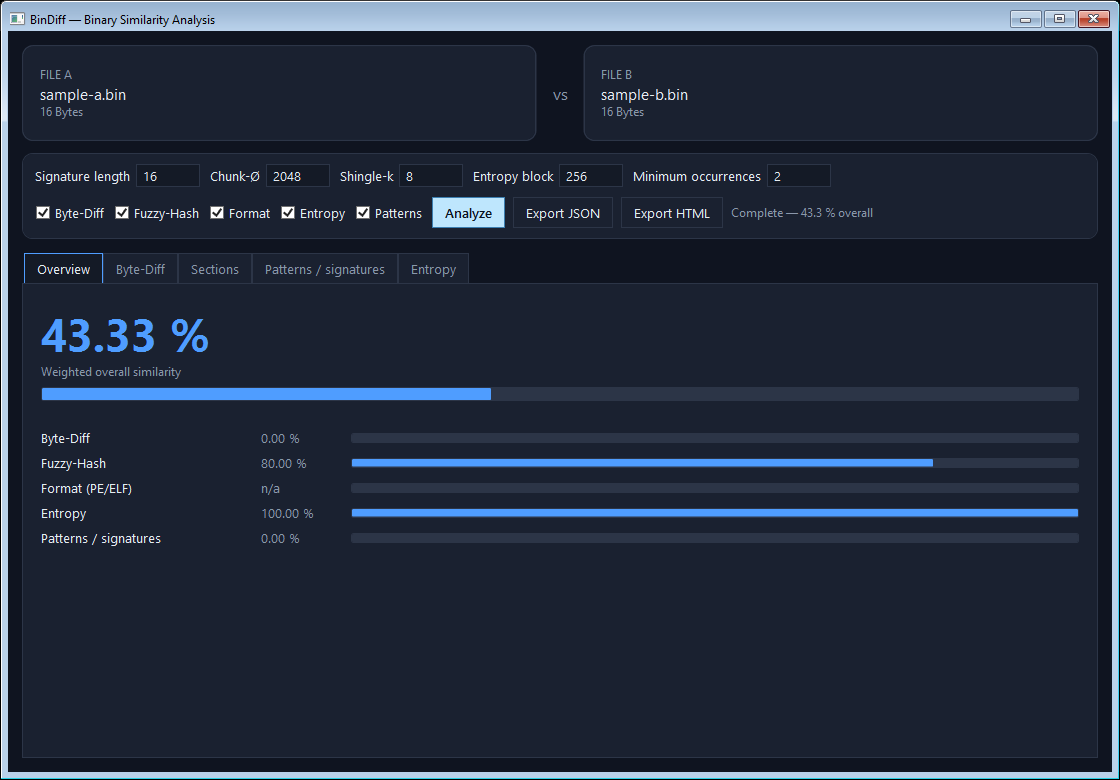
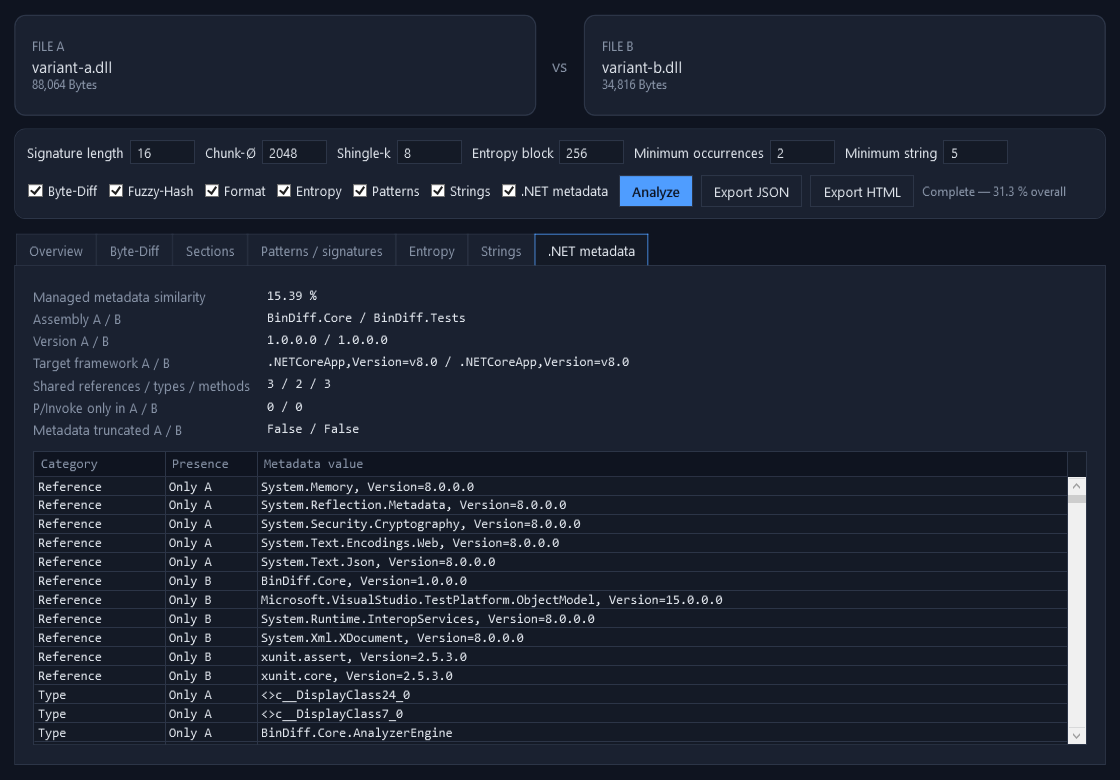
docs: prepare BinDiff 2 release candidate

Changed region(s): [[0.0, 0.0, 1.0, 1.0], [0.4375, 0.4615, 0.5625, 0.4923], [0.75, 0.1846, 0.8438, 0.2154]]

diff --git a/docs/release-readiness.md b/docs/release-readiness.md
@@ -1,115 +1,55 @@
-# BinDiff Release Readiness
+# BinDiff 2.0 release-candidate checklist
 
-## Baseline recorded 2026-08-12
+Target tag: `v2.0.0-rc.1`
 
-Commands were run from the repository root on the public-release branch.
+## Public boundary
 
-```text
-dotnet build BinDiff.slnx
-```
+The source tree contains the managed local comparison engine, CLI, WPF GUI,
+documentation, and safe synthetic/project-owned tests. It contains no unknown
+sample, updater, telemetry, network client, binary rewriter, disassembler,
+decompiler, or project-owned native component.
 
-Result: succeeded with 0 errors and 2 warnings. Both warnings are xUnit2000 in
-`BinDiff.Tests/ByteDiffAnalyzerTests.cs` lines 50 and 51: `Assert.Equal`
-arguments are ordered as actual, expected rather than expected, actual.
+Self-contained archives include Microsoft .NET runtime dependencies produced by
+`dotnet publish`. Inputs remain local and read-only. Managed PE files are parsed
+with metadata readers rather than loaded as assemblies.
 
-```text
-dotnet test BinDiff.Tests/BinDiff.Tests.csproj
-```
+## Required evidence
 
-Result: passed: 40; failed: 0; skipped: 0. The same two xUnit2000 warnings were
-emitted during the test build.
+- Release build completes with no warnings or errors.
+- All tests pass in Release configuration.
+- Format verification and `git diff --check` pass.
+- Self-contained Windows x64 CLI and GUI publishes succeed.
+- CLI comparison writes concrete `strings` and `dotNet` data to valid JSON and
+  encoded HTML.
+- Published GUI starts and completes a harmless project-assembly comparison.
+- The refreshed screenshot contains neutral artifact names and no private path.
+- Tracked-file review finds no build output, executable sample, report, dump,
+  credential, personal path, or unexpected large file.
+- README, security policy, contribution guide, report format, changelog, CI, and
+  tag-release workflow match the shipped behavior.
 
-## Repository scan
+## Verification record
 
-Tracked source, XAML, and documentation contain German user-facing copy and
-comments in the CLI, Core reporting and model files, and WPF GUI. The existing
-README is German and its UTF-8 text is displayed incorrectly in the current
-PowerShell output encoding.
+Verified locally on 2026-09-01 against the complete candidate tree:
 
-No tracked personal filesystem paths, credential-like strings, executable
-samples, or generated binary artifacts were found by the baseline scan. The
-existing `.gitignore` excludes `bin/`, `obj/`, `.vs/`, `.idea/`, and generated
-report files.
+- Release build: zero warnings and zero errors.
+- Tests: 52 passed, zero failed, zero skipped.
+- Format verification, YAML parse, and `git diff --check`: succeeded.
+- Self-contained Windows x64 CLI and GUI publishes: succeeded.
+- Published CLI smoke: seven section kinds; 945 bounded strings in A; managed
+  metadata applicable; concrete JSON and 52,701-byte self-contained HTML.
+- Both SHA-256 input hashes were identical before and after comparison.
+- Published GUI smoke: responsive; 61 automation elements; Analyze, Strings,
+  .NET metadata, and Export controls present.
+- 1120 × 780 WPF screenshot inspected with neutral `variant-a.dll` and
+  `variant-b.dll` project artifacts and no visible private path.
 
-## Release gate recorded 2026-08-12
+## Maintainer actions
 
-```text
-dotnet build BinDiff.slnx --configuration Release
-```
+1. Enable GitHub private vulnerability reporting.
+2. Confirm source ownership, MIT licensing, and dependency provenance.
+3. Merge the reviewed branch to `main` and create the target tag.
+4. Verify the generated `SHA256SUMS.txt` before announcing the release.
 
-Result: succeeded with 0 warnings and 0 errors.
-
-```text
-dotnet test BinDiff.Tests/BinDiff.Tests.csproj --configuration Release
-```
-
-Result: passed: 40; failed: 0; skipped: 0.
-
-```text
-dotnet format BinDiff.slnx --verify-no-changes
-```
-
-Result: succeeded with no required formatting changes.
-
-The final tracked-file scan found no generated build output, IDE state, private
-paths, credential-like strings, or executable samples. `git status --short` and
-the staged-file list were empty before this report update.
-
-## Provenance and documentation
-
-`git log --all --name-status` shows the tracked source was introduced by the
-same project author, and a repository-wide source scan found no third-party or
-license notices. The repository owner selected the MIT License for the original
-project source and documentation. This technical evidence is not a substitute
-for the owner's final confirmation that all included work may be relicensed.
-
-The GUI screenshot at `docs/images/gui-overview.png` was captured from the
-locally built WPF application and inspected. It shows the completed comparison
-of synthetic `sample-a.bin` and `sample-b.bin` inputs only; no private path or
-real filename is present.
-
-## Remaining limitations
-
-## Release blockers
-
-- Explicit source-ownership and provenance confirmation is required before the
-  public repository is enabled.
-- Before publishing to GitHub, the owner must enable **Report a vulnerability**
-  in the repository's Security tab or publish an equivalent monitored private
-  reporting route.
-
-The tool also loads complete inputs into memory, and its format and similarity
-results are best-effort heuristics; these limitations are documented in the
-README.
-
-## Review remediation recorded 2026-08-12
-
-The README's synthetic PowerShell example was run from the repository root. It
-created two 16-byte temporary inputs, exited with code 0, wrote nonempty JSON
-(7,109 bytes) and HTML (6,255 bytes) reports, and left both input SHA-256 hashes
-unchanged. The temporary directory was removed after verification.
-
-The GUI screenshot was recaptured from the built WPF application after selecting
-the same synthetic files and running a comparison. It visibly shows only
-`sample-a.bin`, `sample-b.bin`, their 16-byte sizes, and derived scores.
-
-Following the remediation, the Release build, Release test suite, and format
-verification were run again: build succeeded with 0 warnings and 0 errors;
-tests passed 41/41; and `dotnet format BinDiff.slnx --verify-no-changes`
-succeeded.
-
-## GUI theme remediation recorded 2026-08-12
-
-The result-state screenshot exposed native light tab and progress-control
-templates and black overview labels on the dark theme. The root cause was that
-the XAML only set basic control properties, leaving the native `TabItem` and
-`ProgressBar` templates active; the overview title binding also relied on an
-implicit text foreground. Explicit dark `TabItem` and `ProgressBar` templates,
-data-grid row foregrounds, and an explicit overview-label foreground now ensure
-the intended dark surfaces and high-contrast text.
-
-`GuiThemeResourceTests` is a focused regression check that fails unless the
-theme defines explicit tab/progress templates and the overview title binds to
-the foreground resource. It was observed failing before the XAML change and
-passes afterward. The refreshed application screenshot was visually inspected:
-tab headers, metric labels, tracks, and fills now render with the dark palette.
+A release candidate invites validation. Similarity remains evidence for review,
+not proof of common origin, intent, or safety.

diff --git a/README.md b/README.md
@@ -1,9 +1,9 @@
 # BinDiff
 
 BinDiff compares two authorized binary files on your machine. It brings byte
-layout, fuzzy hashes, PE/ELF metadata, entropy, and repeated byte patterns into
-one report so you can investigate variants, document changes, or troubleshoot
-build artifacts.
+layout, fuzzy hashes, PE/ELF structure, managed .NET metadata, entropy,
+embedded strings, and repeated byte patterns into one report so you can
+investigate variants, document changes, or troubleshoot build artifacts.
 
 It reads inputs only. BinDiff does not modify files, contact a network service,
 collect telemetry, upload data, or generate binaries. Analyze only files you
@@ -11,10 +11,10 @@ are authorized to inspect.
 
 ## Project status
 
-The current source release targets .NET 8 and keeps analysis local and
-read-only. The CLI, WPF GUI, core engine, deterministic report writers, and
-synthetic test fixtures are maintained together. There are no published binary
-releases; build from source and validate the exact revision you intend to use.
+The 2.0 release candidate targets .NET 8 and keeps analysis local and read-only.
+The CLI, WPF GUI, core engine, deterministic report writers, and synthetic test
+fixtures are maintained together. Build from source until a reviewed tag and
+its checksums appear on the Releases page.
 
 ![BinDiff GUI overview](docs/images/gui-overview.png)
 
@@ -36,6 +36,8 @@ flowchart LR
   Core --> Format["PE / ELF format"]
   Core --> Entropy["Entropy"]
   Core --> Patterns["Patterns"]
+  Core --> Strings["ASCII / UTF-16LE strings"]
+  Core --> DotNet["Managed .NET metadata"]
   Core --> Reports["Text / JSON / HTML reports"]
 ```
 
@@ -51,6 +53,11 @@ flowchart LR
   profiles.
 - Pattern analysis compares fixed-length byte sequences and lists common and
   file-specific candidate static indicators.
+- String analysis extracts bounded printable ASCII and UTF-16LE runs, then
+  reports shared and file-specific values with encoding, offsets, and counts.
+- Managed .NET analysis reads assembly identity, target framework, references,
+  types, methods, and P/Invoke declarations directly from PE metadata. It does
+  not load either assembly.
 
 Any binary data can be compared. Recognized PE and ELF files add metadata to
 the report; other formats still receive the byte, fuzzy-hash, entropy, and
@@ -102,12 +109,17 @@ Common options:
 | `--block-size <n>` | Target content-defined chunk size | 2048 |
 | `--shingle-k <n>` | Byte shingle size for MinHash | 8 |
 | `--entropy-block <n>` | Entropy block size in bytes | 256 |
-| `--modules <a,b,...>` | Select `bytediff,fuzzy,format,entropy,patterns` | all |
+| `--string-min <n>` | Minimum ASCII/UTF-16LE string length | 5 |
+| `--max-strings <n>` | Displayed strings per shared/unique category | 100 |
+| `--modules <a,b,...>` | Select `bytediff,fuzzy,format,entropy,patterns,strings,dotnet` | all |
 | `--json <path>` | Write a JSON report | — |
 | `--html <path>` | Write a standalone HTML report | — |
 
 Reports include input filenames, paths, sizes, SHA-256 hashes, and derived
-analysis output. Treat that metadata with the same care as the files themselves.
+analysis output. Extracted strings can contain internal paths, endpoints, keys,
+or other sensitive material. Review a report before sharing it and treat it
+with the same care as the files themselves. The machine-facing structure is
+documented in [the report format](docs/report-format.md).
 
 ## GUI
 
@@ -118,8 +130,10 @@ dotnet run --project BinDiff.Gui
 ```
 
 Choose or drag in two files, select the analyses and parameters, then click
-**Analyze**. The screenshot uses the synthetic `sample-a.bin` and
-`sample-b.bin` files; it contains no private path or real input.
+**Analyze**. Dedicated tabs show string changes and managed metadata changes;
+the Overview keeps each module's influence on the weighted score visible. The
+screenshot uses locally built project assemblies renamed `variant-a.dll` and
+`variant-b.dll`; it contains no private path or unknown input.
 
 ## Limitations
 
@@ -130,6 +144,10 @@ Choose or drag in two files, select the analyses and parameters, then click
   substantial memory and time.
 - PE and ELF parsing is deliberately defensive and best-effort, not a full
   disassembler or executable validator.
+- Managed metadata lists declarations. They do not prove a method is reachable
+  or that a P/Invoke is called at runtime.
+- Printable-string extraction intentionally ignores encoded, compressed,
+  encrypted, non-Latin, and short values and can include benign build metadata.
 - BinDiff compares exactly two local files per run and does not perform semantic
   code analysis, unpacking, modification, or network retrieval.
 

diff --git a/docs/report-format.md b/docs/report-format.md
@@ -1,0 +1,49 @@
+# BinDiff report format
+
+JSON reports contain `fileA`, `fileB`, `overallSimilarityPercent`, `sections`,
+`generatedAt`, and `warnings`. Each section has a `kind` discriminator, common
+fields (`module`, `title`, `similarityPercent`, `error`, `metrics`), and its
+module-specific data.
+
+Current section kinds:
+
+| `kind` | Detail |
+| --- | --- |
+| `byteDiff` | Content-defined chunks, byte histogram, and file maps. |
+| `fuzzyHash` | MinHash and context-triggered piecewise hashes. |
+| `format` | PE/ELF summaries, sections, and imports. |
+| `entropy` | Aggregate values and down-sampled profiles. |
+| `patterns` | Shared and file-specific repeated byte sequences. |
+| `strings` | Bounded ASCII/UTF-16LE sets, encoding, offsets, and counts. |
+| `dotNet` | Managed profiles and common/file-specific metadata. |
+| `error` | A module failure captured without aborting the comparison. |
+
+## Stability
+
+The `kind` strings and existing property names are the integration contract for
+the 2.x line. Consumers should ignore unknown properties and section kinds,
+handle a null similarity score, and read `error` before module-specific fields.
+
+`generatedAt` varies per run. Hashes and analyzer content are deterministic for
+the same two inputs, options, architecture, and BinDiff revision. Input paths
+are included in JSON; avoid publishing a report until those paths and extracted
+strings have been reviewed.
+
+## String details
+
+String identity is the pair of `encoding` and `value`; the same text in ASCII
+and UTF-16LE is intentionally treated as two observations. Missing offsets are
+`-1`. Lists are capped by `maxReportedStrings`, while the distinct counts refer
+to the bounded extraction set.
+
+## Managed metadata details
+
+`applicable` is false when neither input exposes managed assembly metadata. A
+single managed input is applicable and scores zero against a native/unknown
+counterpart. `truncated` on a profile means at least one metadata collection hit
+the configured bound. P/Invoke values contain the module, imported member, and
+declaring managed method; they are evidence, not proof the call is reachable.
+
+The HTML report is a human-facing rendering of the same result. It is
+self-contained, uses no scripts or network resources, HTML-encodes extracted
+values, and caps expanded tables for readability.

diff --git a/SECURITY.md b/SECURITY.md
@@ -2,8 +2,8 @@
 
 ## Supported versions
 
-Security fixes are made against the current default branch. This repository has
-not published versioned releases yet.
+Security fixes are made against the newest published release-candidate line.
+Old source snapshots are not maintained.
 
 ## Reporting a vulnerability
 
@@ -35,3 +35,19 @@ disclosure.
 BinDiff is intended to read local files only. Reports that identify unsafe
 parsing, unbounded resource use, unexpected file modification, or an unintended
 network interaction are particularly useful.
+
+The following are security invariants:
+
+- Managed assemblies are parsed as bytes and metadata; they are never loaded,
+  resolved, or executed.
+- Analyzer loops, extracted strings, metadata collections, profiles, and report
+  tables remain bounded for attacker-controlled input.
+- HTML output encodes filenames, paths, warnings, metadata, and extracted text
+  and contains no scripts or external resources.
+- One analyzer failure remains isolated and cannot turn the other results into
+  a clean or identical claim.
+- Inputs are never rewritten, patched, deleted, uploaded, or quarantined.
+
+JSON and HTML reports can contain sensitive strings and local paths derived
+from the inputs. That expected disclosure is documented behavior; leaking the
+data anywhere other than the user-selected local report is not.

diff --git a/CHANGELOG.md b/CHANGELOG.md
@@ -1,0 +1,26 @@
+# Changelog
+
+## 2.0.0-rc.1 — 2026-09-01
+
+### Added
+
+- Bounded ASCII and UTF-16LE extraction with encoding, first offsets,
+  occurrence counts, set similarity, and shared/file-specific result lists.
+- Metadata-only managed .NET comparison for assembly identity, target framework,
+  references, declared types, methods, and P/Invoke targets.
+- Dedicated Strings and .NET metadata views in the WPF application.
+- Complete polymorphic JSON and encoded HTML details for both new modules.
+- CLI module aliases plus `--string-min` and `--max-strings` controls.
+- Report-format documentation and automated Windows build/release workflows.
+
+### Compatibility
+
+The five original analyzers, existing CLI options, and report section kinds are
+preserved. Strings and .NET metadata are enabled by default. An inapplicable
+.NET comparison does not affect the aggregate similarity score.
+
+### Safety
+
+Managed metadata is read through `PEReader`/`MetadataReader`; inspected
+assemblies are not loaded or executed. Extracted strings can contain sensitive
+input data and are therefore called out explicitly in the README and reports.

diff --git a/CONTRIBUTING.md b/CONTRIBUTING.md
@@ -19,12 +19,20 @@ Thanks for helping improve a defensive, local-only analysis tool.
 4. Run the complete local quality gate from the repository root:
 
    ```powershell
-   dotnet build BinDiff.slnx
-   dotnet test BinDiff.Tests/BinDiff.Tests.csproj
-   dotnet format BinDiff.slnx --verify-no-changes
+   dotnet restore BinDiff.slnx
+   dotnet build BinDiff.slnx -c Release --no-restore
+   dotnet test BinDiff.Tests/BinDiff.Tests.csproj -c Release --no-build
+   dotnet format BinDiff.slnx --verify-no-changes --no-restore
+   git diff --check
    ```
 
 5. Explain the safety and compatibility impact in the pull request.
+
+Analyzer tests should cover identical inputs, clearly different inputs, empty
+data, a close benign case, malformed structure, and every new resource bound.
+Report changes need a JSON concrete-field check and an HTML-encoding check for
+untrusted values. Managed tests must use synthetic or project-owned assemblies
+and must not introduce executable samples into source control.
 
 ## Reporting bugs and proposing features
 
